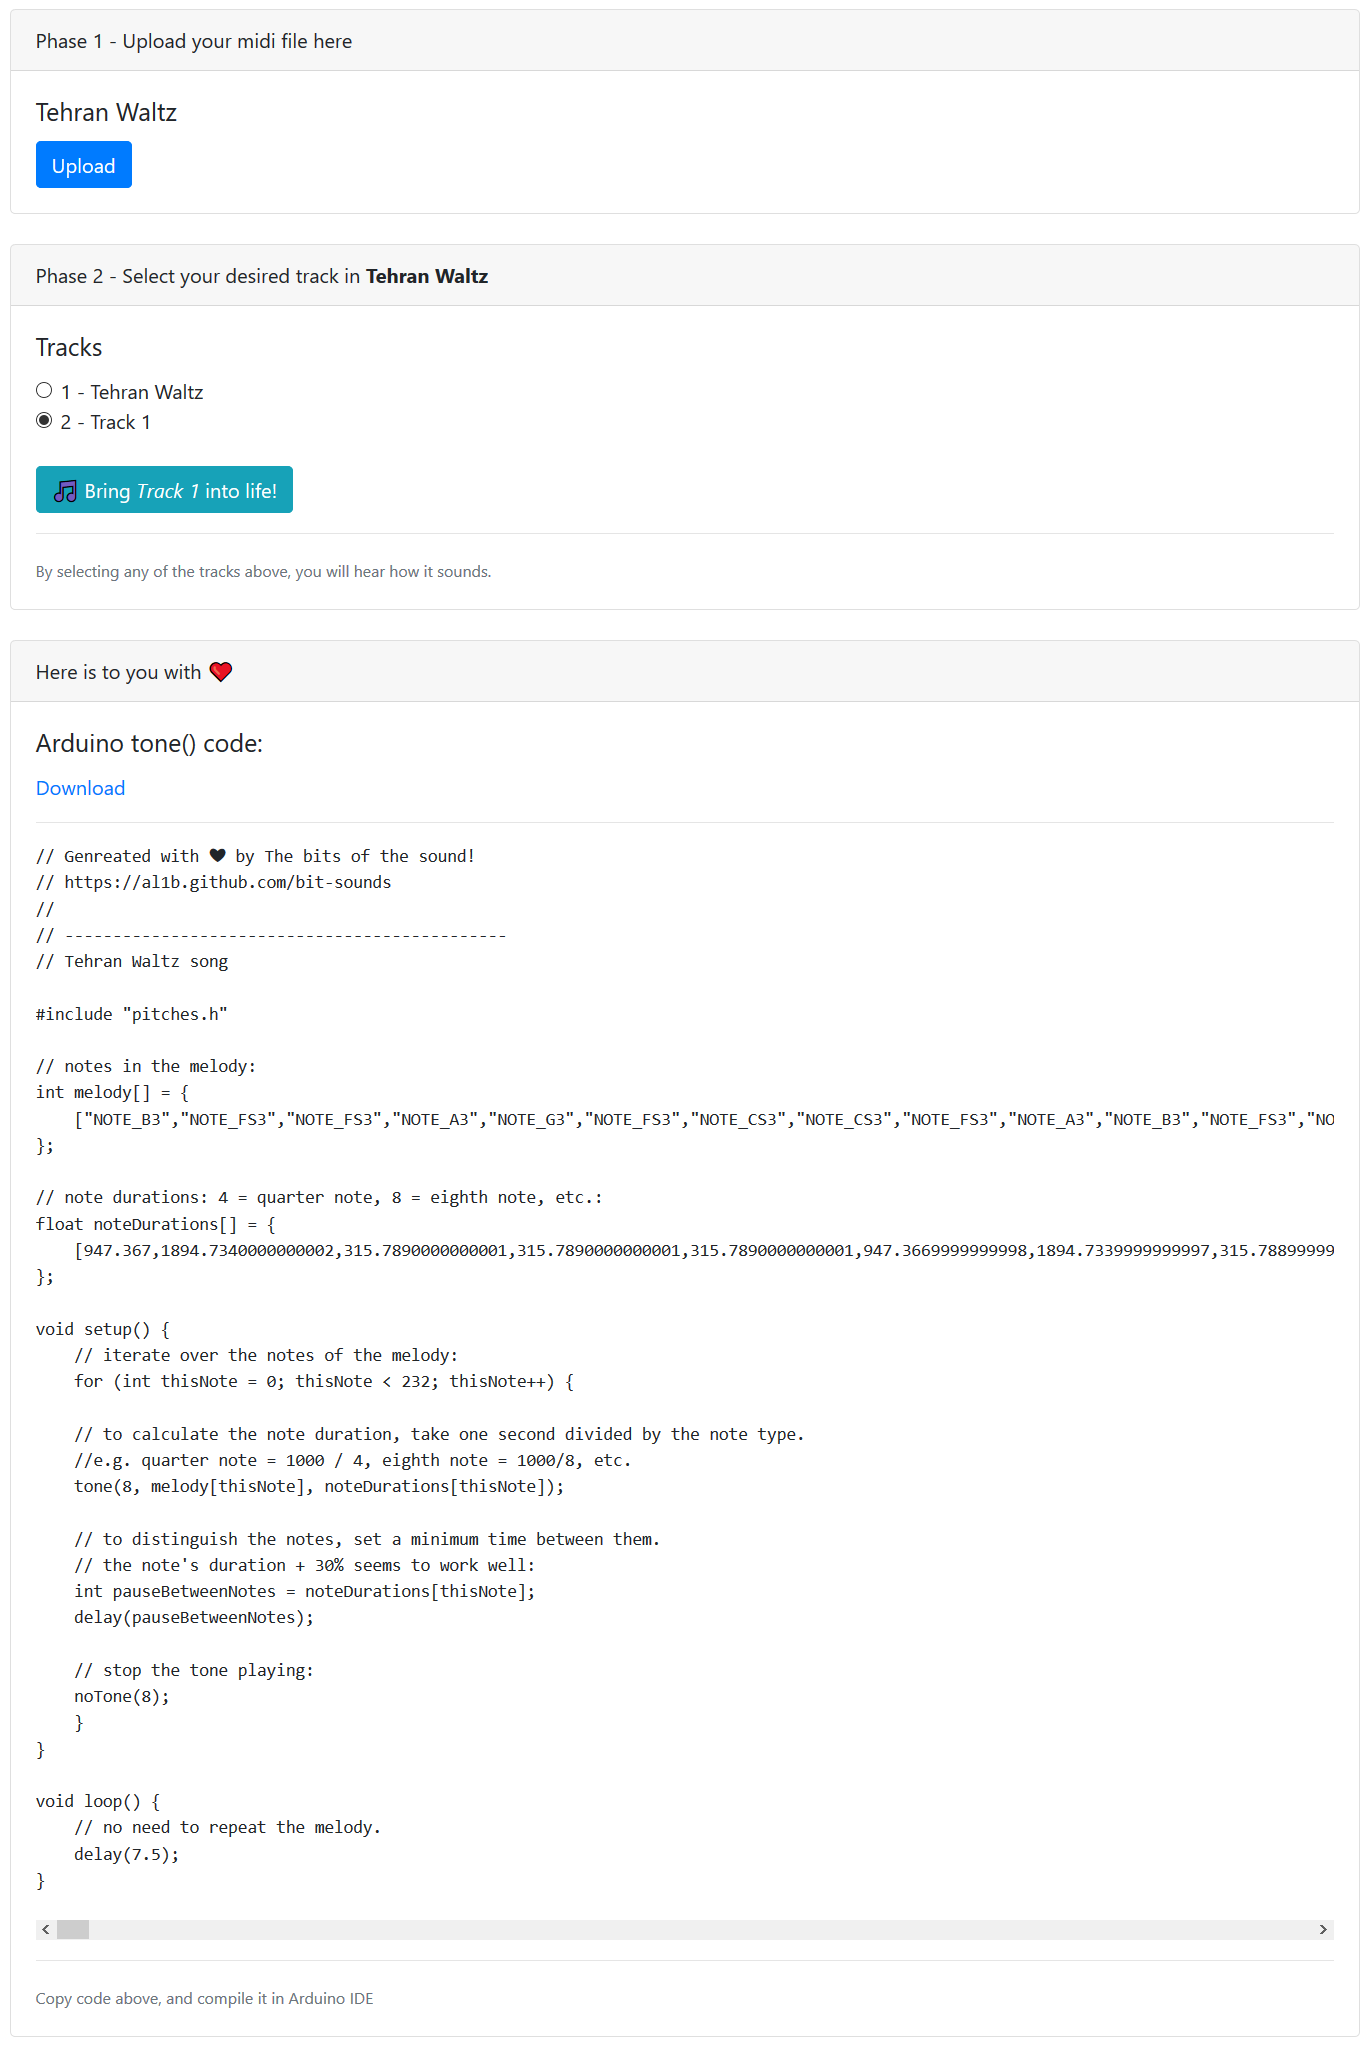
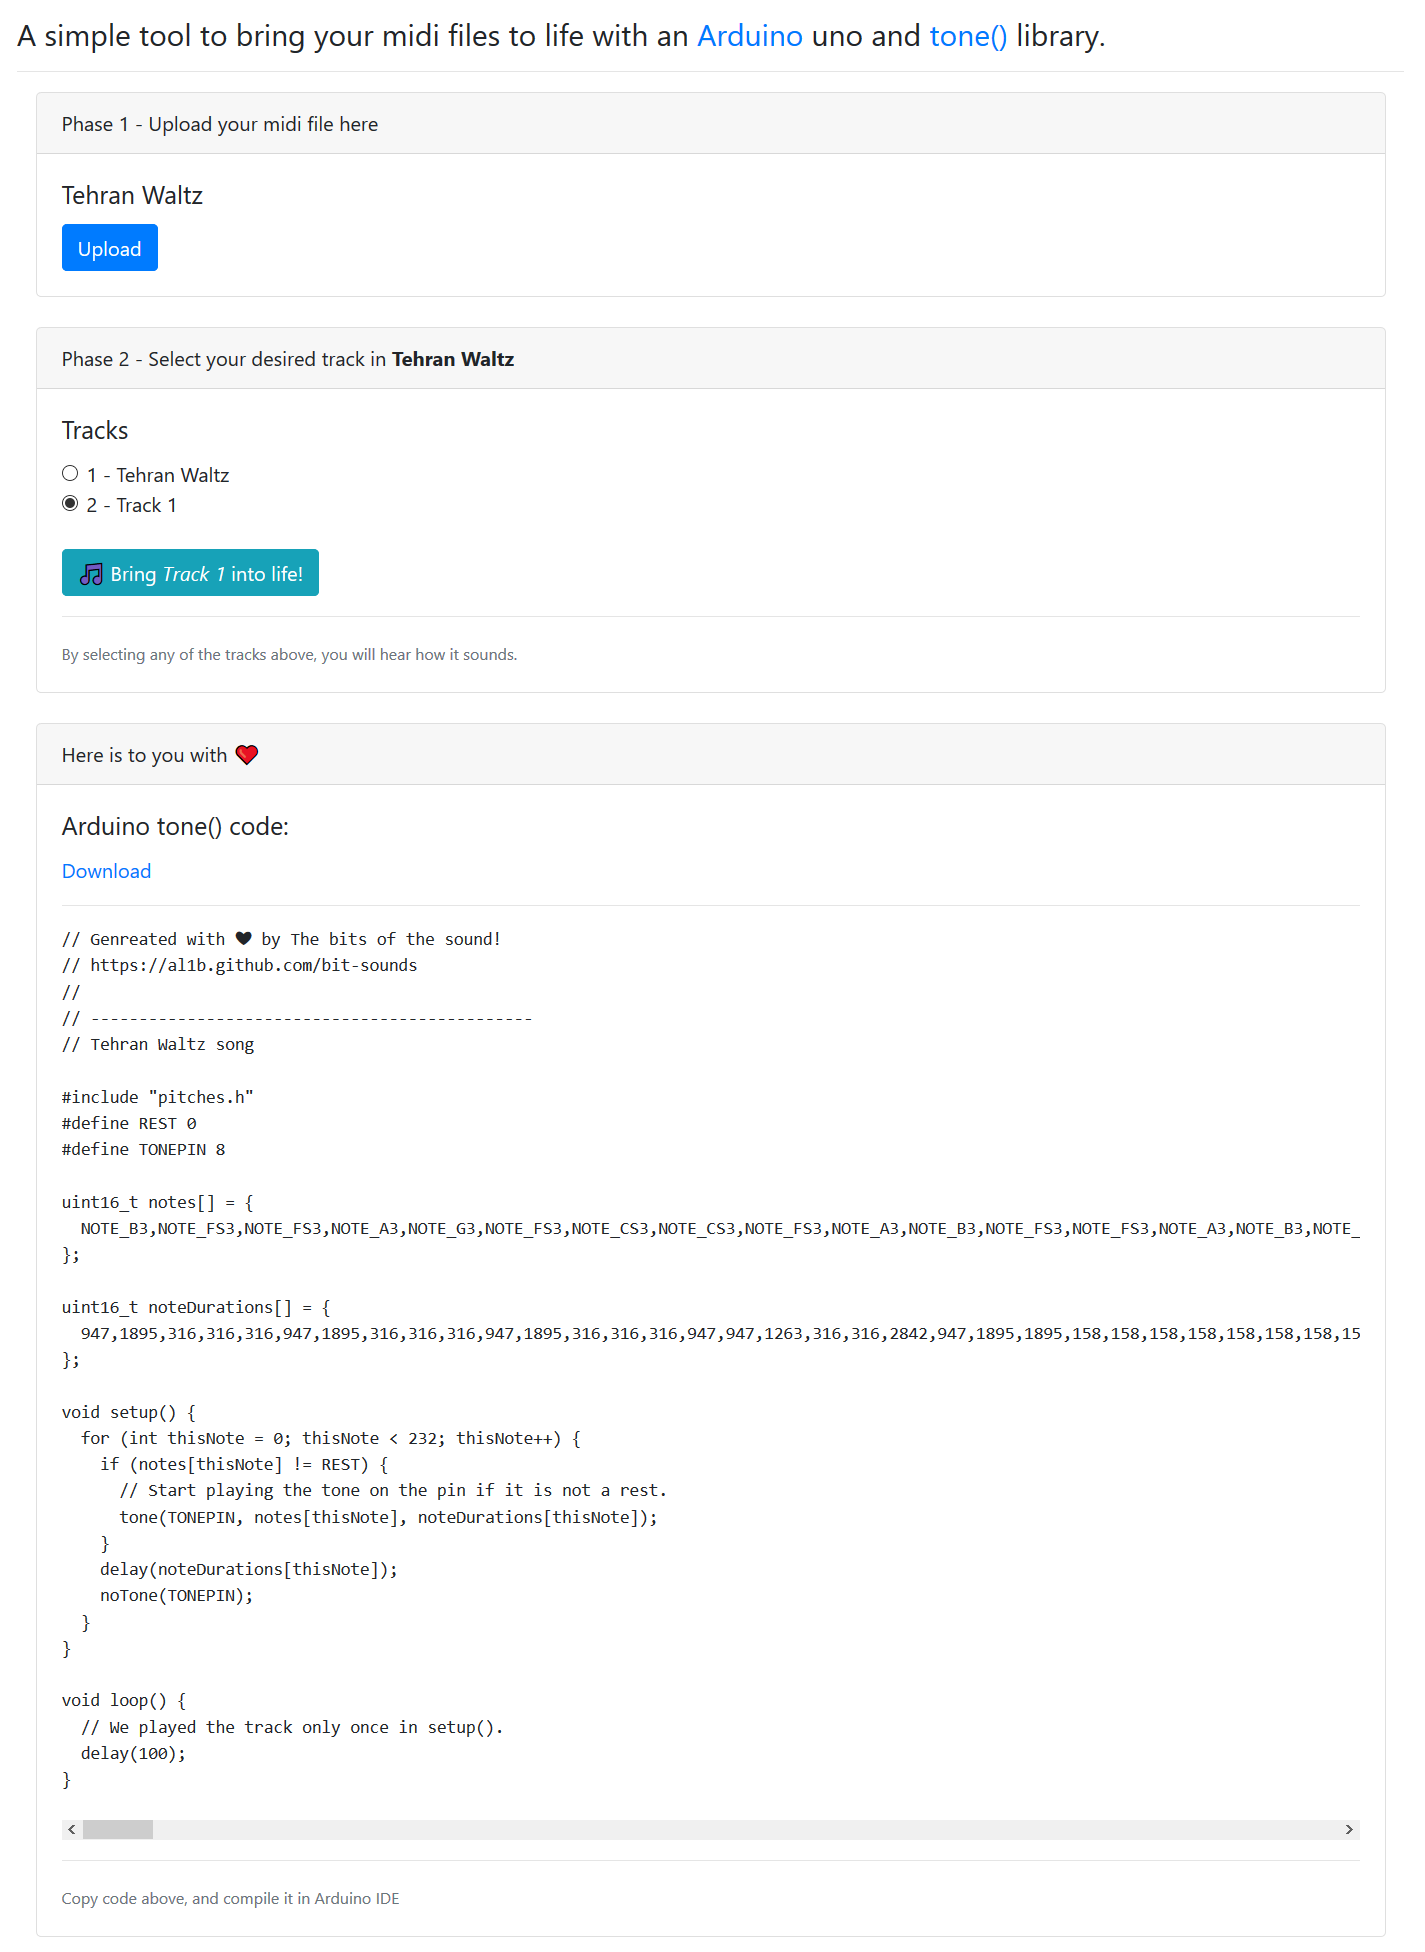
changed by tone

diff --git a/the-bits-of-the-sound/app.js b/the-bits-of-the-sound/app.js
@@ -32,8 +32,15 @@ var app = new Vue({
             for (var i = 0; i < track.notes.length; i++) {
                 var note = track.notes[i];
                 var noteStr = 'NOTE_' + note.name.replace('#', 'S');
+                if (i > 0) {
+                  var restDuration = Math.round((track.notes[i].noteOn - track.notes[i - 1].noteOff) * 1000);
+                  if (restDuration > 0) {
+                    notes.push("REST");
+                    durations.push(restDuration);
+                  }
+                }
                 notes.push(noteStr);
-                durations.push(note.duration * 1000);
+                durations.push(Math.round(note.duration * 1000));
             }
 
             this.phase3 = true;
@@ -45,38 +52,31 @@ var app = new Vue({
 // ${this.midiFile.header.name} song
 
 #include "pitches.h"
+#define REST 0
+#define TONEPIN 8
 
-// notes in the melody:
-int melody[] = {
-    ${JSON.stringify(notes)}
+uint16_t notes[] = {
+  ${JSON.stringify(notes).replace(/[\"\[\]]/g, '')}
 };
 
-// note durations: 4 = quarter note, 8 = eighth note, etc.:
-float noteDurations[] = {
-    ${JSON.stringify(durations)}
+uint16_t noteDurations[] = {
+  ${JSON.stringify(durations).replace(/[\[\]]/g, '')}
 };
 
 void setup() {
-    // iterate over the notes of the melody:
-    for (int thisNote = 0; thisNote < ${durations.length}; thisNote++) {
-
-    // to calculate the note duration, take one second divided by the note type.
-    //e.g. quarter note = 1000 / 4, eighth note = 1000/8, etc.
-    tone(8, melody[thisNote], noteDurations[thisNote]);
-
-    // to distinguish the notes, set a minimum time between them.
-    // the note's duration + 30% seems to work well:
-    int pauseBetweenNotes = noteDurations[thisNote];
-    delay(pauseBetweenNotes);
-    
-    // stop the tone playing:
-    noTone(8);
+  for (int thisNote = 0; thisNote < ${durations.length}; thisNote++) {
+    if (notes[thisNote] != REST) {
+      // Start playing the tone on the pin if it is not a rest.
+      tone(TONEPIN, notes[thisNote], noteDurations[thisNote]);
     }
+    delay(noteDurations[thisNote]);
+    noTone(TONEPIN);
+  }
 }
 
 void loop() {
-    // no need to repeat the melody.
-    delay(7.5);
+  // We played the track only once in setup().
+  delay(100);
 }`;
         },
         praseMidi(file) {
